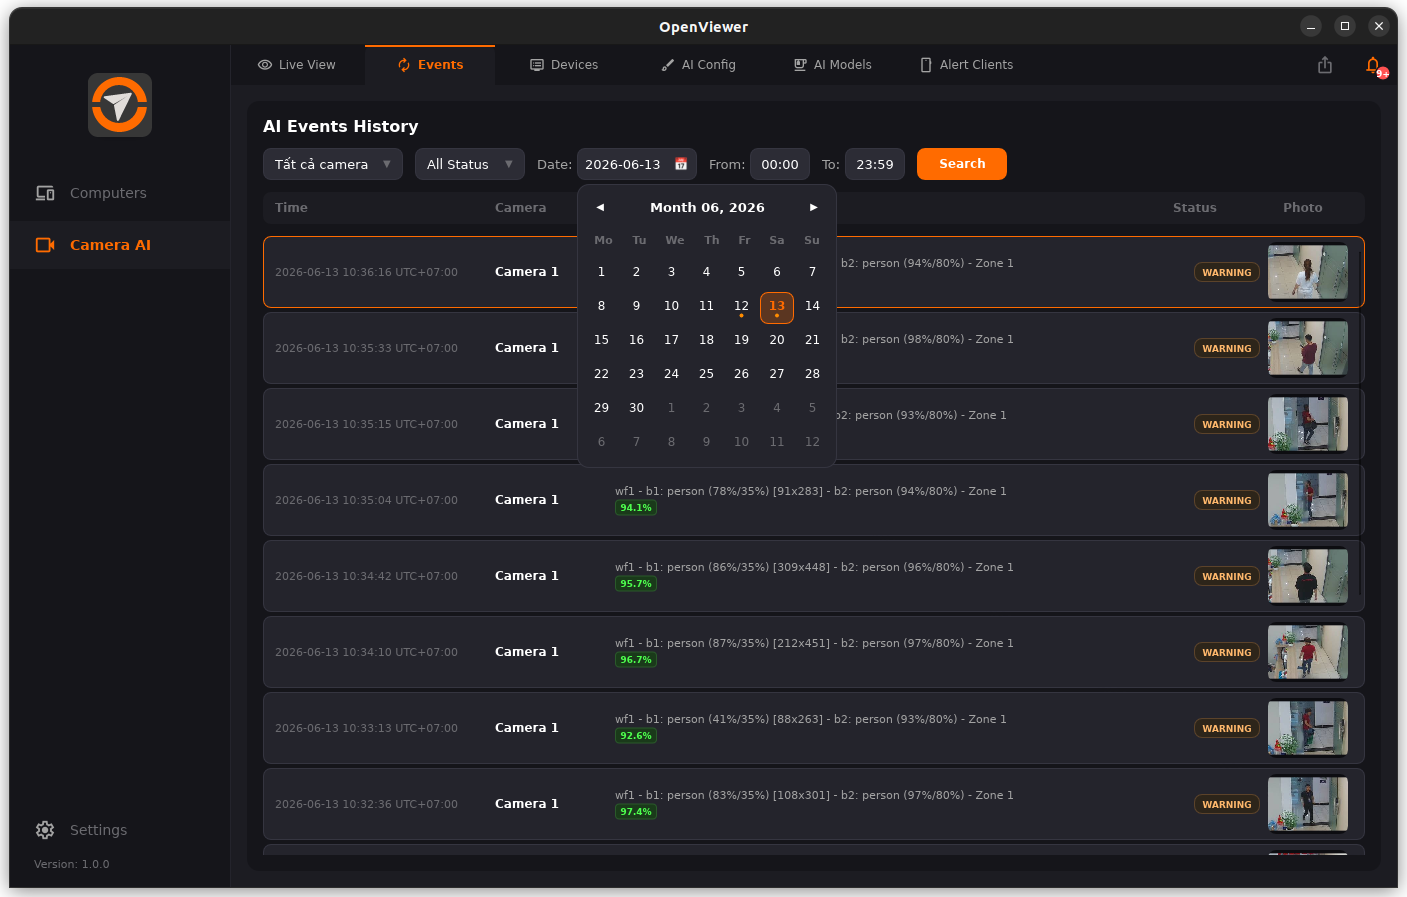
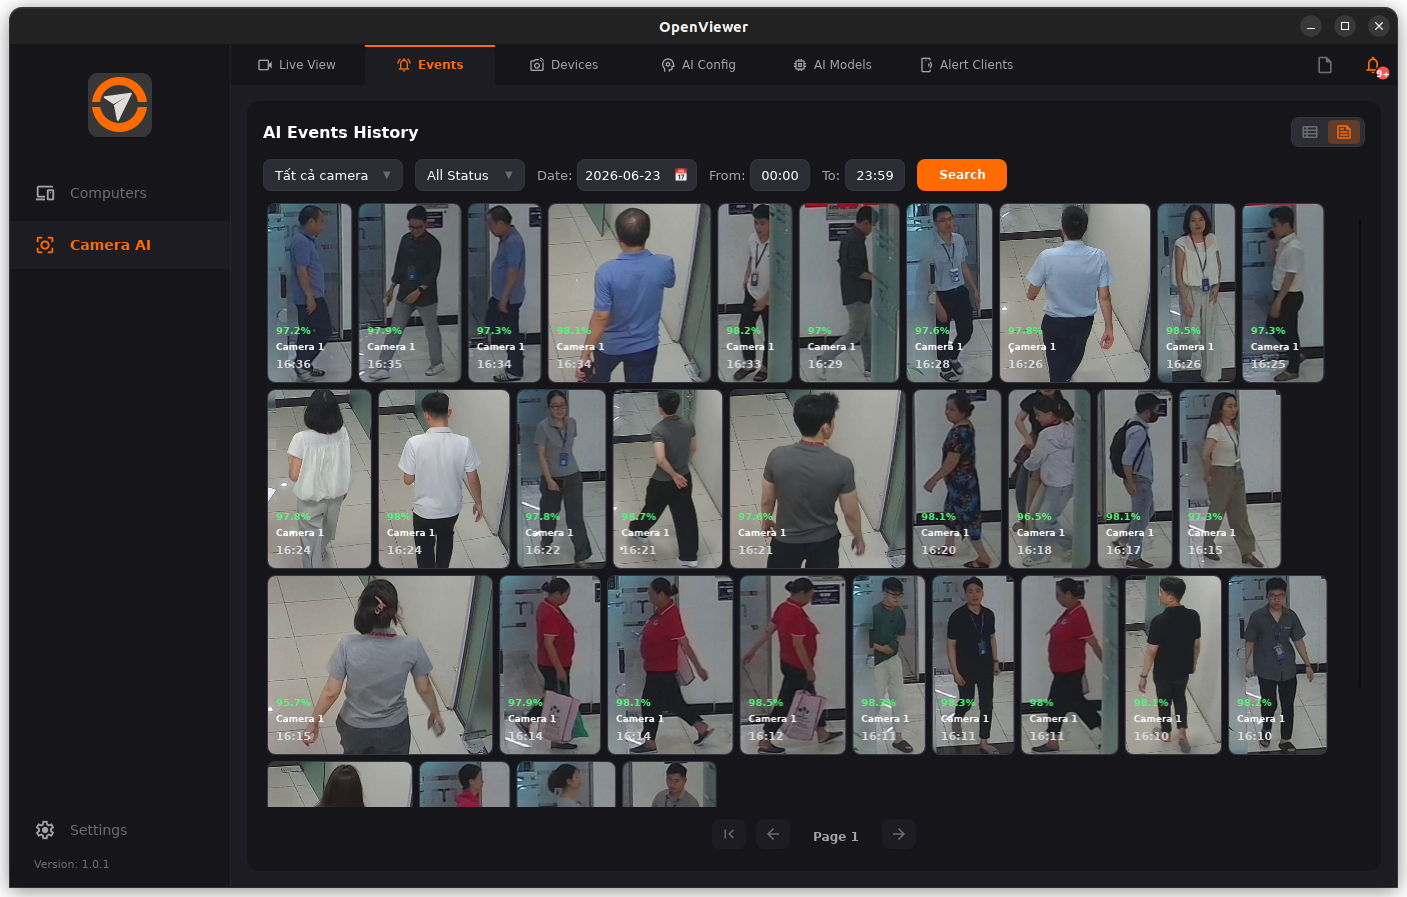
docs: update installation guides, add Vulkan support note, and refresh project screenshots

diff --git a/README_vi.md b/README_vi.md
@@ -28,6 +28,7 @@
   - Capture màn hình và âm thanh hiệu năng cao qua DXGI (Windows), ScreenCaptureKit (macOS) và X11/Wayland/PipeWire (Linux).
   - Truyền tệp tốc độ cao và bảo mật.
 - 📹 **AI-Powered Vision** — Biến camera thành các cảm biến thông minh.
+  - Hỗ trợ tăng tốc CPU và GPU sử dụng Vulkan.
   - Triển khai các mô hình AI tùy chỉnh được huấn luyện riêng cho nhu cầu của bạn.
   - Phát hiện người, đám cháy, phương tiện và các sự kiện quan trọng khác.
   - Tăng cường độ tin cậy với chuỗi xử lý (pipeline) Phát hiện & Phân loại đa tầng.
@@ -37,6 +38,63 @@
 - 📱 **Đa nền tảng** — Windows, Linux, macOS, Android, iOS
 - 🌐 **Không cần cấu hình cổng (Port Forwarding)** — Hoạt động tốt sau mạng NAT nhờ hệ thống STUN/TURN relay
 - 🔔 **Thông báo đẩy** — Gửi trực tiếp các cảnh báo sự kiện AI đến điện thoại của bạn
+
+---
+
+## 🚀 Khởi động nhanh
+
+Bắt đầu sử dụng **OpenViewer** chỉ với ba bước đơn giản:
+
+### 1. Tải xuống OpenViewer
+Tải xuống phiên bản cài đặt mới nhất phù hợp với thiết bị của bạn từ trang [GitHub Releases](https://github.com/sonnvntu/openviewer-releases/releases/latest).
+* Hỗ trợ đầy đủ cho Windows, Linux, macOS, Android và iOS.
+
+### 2. Cài đặt & Thiết lập
+* **Trên máy tính cần điều khiển (Host)**: Khởi chạy ứng dụng OpenViewer Host để cho phép kết nối từ xa và cấu hình các tính năng Camera AI.
+* **Trên thiết bị điều khiển (Client)**: Mở ứng dụng OpenViewer Client trên máy tính hoặc điện thoại.
+
+### 3. Kết nối & Trải nghiệm
+* Đăng nhập tài khoản hoặc sử dụng ID kết nối được cấp để bắt đầu phiên truy cập từ xa P2P bảo mật.
+* Thêm camera và triển khai các mô hình AI trực tiếp từ giao diện điều khiển.
+
+---
+
+## 📦 Hướng dẫn cài đặt
+
+### 🪟 Windows
+1. Tải xuống tệp `openviewer-windows-x64.zip` hoặc `.exe` từ trang [Releases](https://github.com/sonnvntu/openviewer-releases/releases/latest).
+2. Giải nén tệp ZIP (nếu tải bản zip) hoặc chạy tệp cài đặt `.exe`.
+3. Chạy tệp `OpenViewer.exe` để bắt đầu.
+
+### 🐧 Linux
+1. Tải xuống tệp `openviewer-linux-x64.AppImage` (hoặc gói `OpenViewer-v1.0.1-linux-amd64.deb`).
+2. Đối với **AppImage**:
+   * Nhấp chuột phải vào tệp, chọn **Properties** (Thuộc tính) -> **Permissions** (Quyền) -> tích chọn **Allow executing file as program** (Cho phép thực thi tệp như một chương trình).
+   * Hoặc mở Terminal và chạy lệnh sau:
+     ```bash
+     chmod +x openviewer-linux-x64.AppImage
+     ./openviewer-linux-x64.AppImage
+     ```
+3. Đối với **DEB** (Debian/Ubuntu):
+   ```bash
+   # Cài đặt
+   sudo apt install ./OpenViewer-v1.0.1-linux-amd64.deb
+
+   # Cài đặt lại (reinstall)
+   sudo apt install --reinstall ./OpenViewer-v1.0.1-linux-amd64.deb
+   ```
+
+### 🍎 macOS
+1. Tải xuống tệp `openviewer-macos-x64.dmg` (hoặc bản arm64 cho Apple Silicon).
+2. Nhấp đúp vào tệp `.dmg` và kéo thả biểu tượng **OpenViewer** vào thư mục **Applications** (Ứng dụng).
+3. Nếu xuất hiện cảnh báo bảo mật ứng dụng chưa được xác minh:
+   * Truy cập **System Settings** (Cài đặt hệ thống) > **Privacy & Security** (Quyền riêng tư & Bảo mật).
+   * Cuộn xuống dưới và chọn **Open Anyway** (Vẫn mở).
+
+### 🤖 Android (APK)
+1. Tải xuống tệp `openviewer-android.apk` trực tiếp trên thiết bị của bạn.
+2. Mở tệp APK vừa tải. Nếu được yêu cầu, hãy cấp quyền **"Cài đặt ứng dụng từ nguồn không xác định"** (Install from Unknown Sources) trong phần cài đặt của trình duyệt hoặc trình quản lý tệp.
+3. Nhấn **Cài đặt** (Install) và mở ứng dụng.
 
 ---
 
@@ -50,13 +108,21 @@
   <img src="assets/desktop_ai_live.png" alt="Xem trực tiếp AI trên Desktop" width="49%">
   <img src="assets/desktop_ai_events.png" alt="Lịch sử sự kiện AI" width="49%">
 </div>
+<div align="center" style="margin-top: 10px;">
+  <img src="assets/desktop_remote_win.png" alt="Điều khiển máy tính Windows" width="49%">
+  <img src="assets/desktop_remote_linux.png" alt="Điều khiển máy tính Linux" width="49%">
+</div>
 
 ### 📱 Ứng dụng Di động
 <div align="center">
-  <img src="assets/mobile_remote_connections.jpg" alt="Danh sách kết nối di động" width="24%">
-  <img src="assets/mobile_camera_live.jpg" alt="Xem trực tiếp camera trên di động" width="24%">
-  <img src="assets/mobile_ai_alerts.jpg" alt="Danh sách cảnh báo AI" width="24%">
-  <img src="assets/mobile_push_notifications.jpg" alt="Thông báo đẩy trên di động" width="24%">
+  <img src="assets/mobile_remote_connections.jpg" alt="Danh sách kết nối di động" width="32%">
+  <img src="assets/mobile_remote.jpg" alt="Điều khiển từ xa trên di động" width="32%">
+  <img src="assets/mobile_camera_live.jpg" alt="Xem trực tiếp camera trên di động" width="32%">
+</div>
+<div align="center" style="margin-top: 10px;">
+  <img src="assets/mobile_ai_alerts.jpg" alt="Danh sách cảnh báo AI" width="32%">
+  <img src="assets/mobile_ai_alert_local.jpg" alt="Chi tiết sự kiện AI" width="32%">
+  <img src="assets/mobile_push_notifications.jpg" alt="Thông báo đẩy trên di động" width="32%">
 </div>
 
 ---

diff --git a/README.md b/README.md
@@ -28,6 +28,7 @@
   - High-performance screen & audio capture via DXGI (Windows), ScreenCaptureKit (macOS), and X11/Wayland/PipeWire (Linux).
   - High-performance, secure file transfer.
 - 📹 **AI-Powered Vision** — Transform cameras into intelligent sensors.
+  - Support CPU and GPU acceleration via Vulkan.
   - Deploy custom AI models trained for your specific use cases.
   - Detect people, fire, vehicles, and other critical events.
   - Enhance confidence with multi-stage Detection and Classification pipelines.
@@ -37,6 +38,63 @@
 - 📱 **Cross-Platform** — Windows, Linux, macOS, Android, iOS
 - 🌐 **No Port Forwarding** — Works behind NAT with STUN/TURN relay
 - 🔔 **Push Notifications** — AI event alerts delivered to your phone
+
+---
+
+## 🚀 Quick Start
+
+Get started with **OpenViewer** in three simple steps:
+
+### 1. Download OpenViewer
+Download the latest client or host installer for your platform from the [GitHub Releases](https://github.com/sonnvntu/openviewer-releases/releases/latest) page.
+* Available for Windows, Linux, macOS, Android, and iOS.
+
+### 2. Run and Setup
+* **On the Host computer**: Run the OpenViewer Host application to enable remote access and start configuring AI-Powered Vision features.
+* **On the Client device**: Open the OpenViewer app (Desktop or Mobile) to connect.
+
+### 3. Connect & Control
+* Log in with your account or use the generated connection ID to establish a secure P2P remote session.
+* Configure your cameras and start deploying AI models directly from the dashboard.
+
+---
+
+## 📦 Installation Guide
+
+### 🪟 Windows
+1. Download the `openviewer-windows-x64.zip` or `.exe` from [Releases](https://github.com/sonnvntu/openviewer-releases/releases/latest).
+2. Extract the ZIP file (if downloaded) or run the installer `.exe`.
+3. Open `OpenViewer.exe` to start.
+
+### 🐧 Linux
+1. Download the `openviewer-linux-x64.AppImage` (or `OpenViewer-v1.0.1-linux-amd64.deb` package).
+2. For **AppImage**:
+   * Right-click the file, go to **Properties** -> **Permissions** -> check **Allow executing file as program**.
+   * Or run the following command in your terminal:
+     ```bash
+     chmod +x openviewer-linux-x64.AppImage
+     ./openviewer-linux-x64.AppImage
+     ```
+3. For **DEB** (Debian/Ubuntu):
+   ```bash
+   # Install
+   sudo apt install ./OpenViewer-v1.0.1-linux-amd64.deb
+
+   # Reinstall
+   sudo apt install --reinstall ./OpenViewer-v1.0.1-linux-amd64.deb
+   ```
+
+### 🍎 macOS
+1. Download the `openviewer-macos-x64.dmg` (or arm64 for Apple Silicon).
+2. Double-click the `.dmg` file and drag **OpenViewer** to your **Applications** folder.
+3. If you get a "Developer cannot be verified" warning:
+   * Go to **System Settings** > **Privacy & Security**.
+   * Scroll down and click **Open Anyway**.
+
+### 🤖 Android (APK)
+1. Download the `openviewer-android.apk` file on your device.
+2. Open the downloaded file. If prompted, enable **"Install from Unknown Sources"** in settings.
+3. Tap **Install** and open the app.
 
 ---
 
@@ -50,13 +108,21 @@
   <img src="assets/desktop_ai_live.png" alt="Desktop AI Live Stream" width="49%">
   <img src="assets/desktop_ai_events.png" alt="AI Events History" width="49%">
 </div>
+<div align="center" style="margin-top: 10px;">
+  <img src="assets/desktop_remote_win.png" alt="Remote Windows Session" width="49%">
+  <img src="assets/desktop_remote_linux.png" alt="Remote Linux Session" width="49%">
+</div>
 
 ### 📱 Mobile App
 <div align="center">
-  <img src="assets/mobile_remote_connections.jpg" alt="Mobile Remote Connections" width="24%">
-  <img src="assets/mobile_camera_live.jpg" alt="Mobile Camera Live Stream" width="24%">
-  <img src="assets/mobile_ai_alerts.jpg" alt="Mobile AI Alerts" width="24%">
-  <img src="assets/mobile_push_notifications.jpg" alt="Mobile Push Notifications" width="24%">
+  <img src="assets/mobile_remote_connections.jpg" alt="Mobile Remote Connections" width="32%">
+  <img src="assets/mobile_remote.jpg" alt="Mobile Remote Control" width="32%">
+  <img src="assets/mobile_camera_live.jpg" alt="Mobile Camera Live Stream" width="32%">
+</div>
+<div align="center" style="margin-top: 10px;">
+  <img src="assets/mobile_ai_alerts.jpg" alt="Mobile AI Alerts List" width="32%">
+  <img src="assets/mobile_ai_alert_local.jpg" alt="Mobile AI Alert Details" width="32%">
+  <img src="assets/mobile_push_notifications.jpg" alt="Mobile Push Notifications" width="32%">
 </div>
 
 ---
